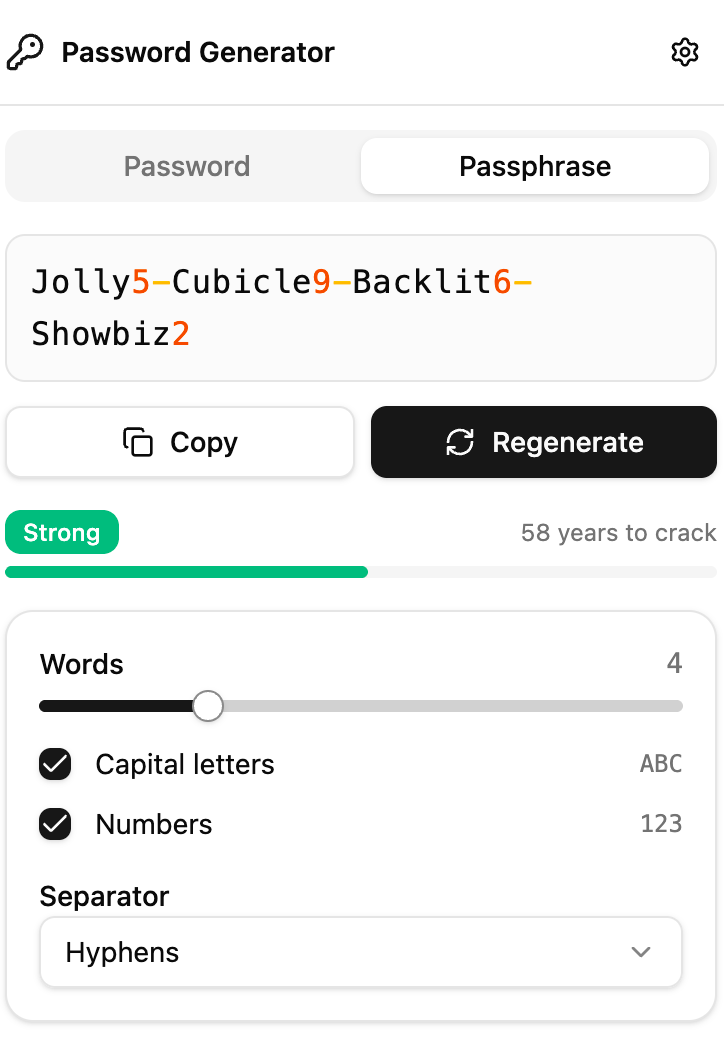
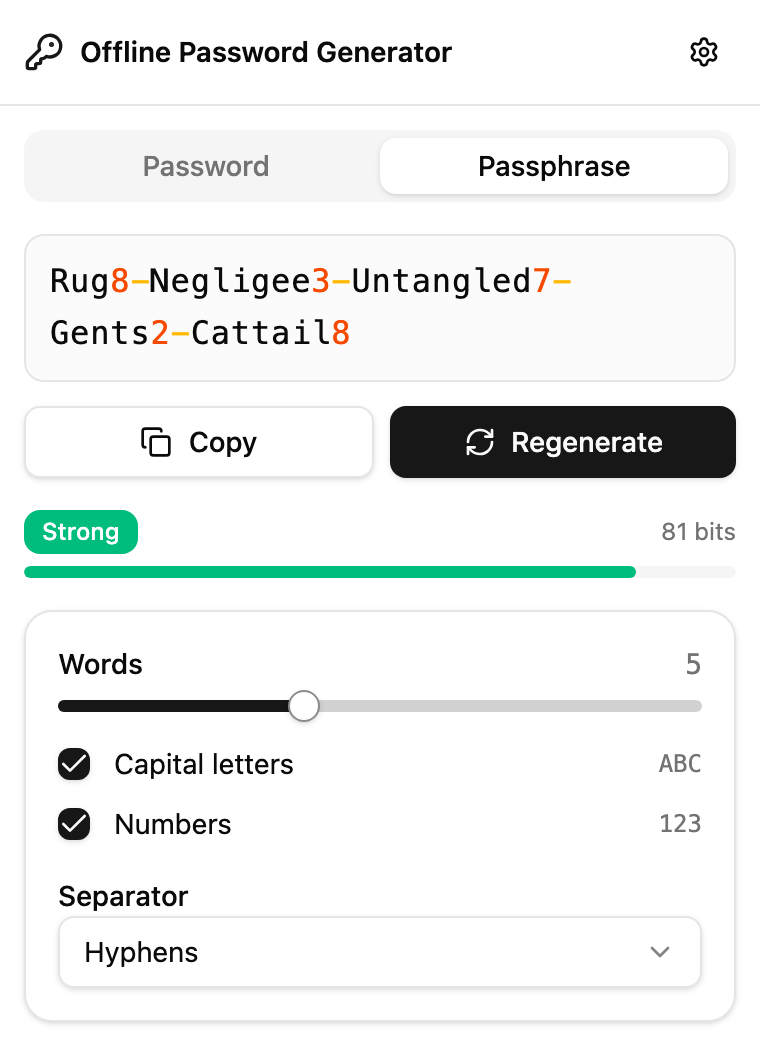
feat: report entropy in bits instead of an invented crack time
The strength meter read the same for every setting in the range people
actually use. Two causes, both in the presentation rather than the maths.

A crack time needs an assumed guess rate, and the real rate is set by how
the target service hashes the secret - roughly 1e4/s against bcrypt at work
factor 12, upwards of 1e12/s against unsalted MD5 on GPUs. A generator
cannot know where its output ends up, so the hardcoded 1e10/s was made up,
and it saturated: everything past ~89 bits printed "billions of years", so
5 through 10 words were indistinguishable. Report bits instead - a property
of the secret, needing no assumption about the attacker, and unbounded, so
every step of the slider moves it.

Recalibrate the labels to 30/55/75/95 bits. The old scale put 36 to 60 bits
in one "Fair" bucket, which is 5 seconds to 79 days, and labelled a
two-word phrase "Fair" next to "5 seconds to crack". Two words now reads
Weak, an 8-character password Weak, and both defaults stay in the green.

The bar now fills at the "Very strong" threshold rather than a separate
128, so bar and badge can no longer disagree.

Entropy itself is unchanged: it depends only on the settings, never on
which words came up. Regenerating at fixed settings does not move the
number, and that is correct - scoring by string length would reward long
words that add no entropy at all.

Also correct the README's passphrase range to 2-10, matching the code, and
[…]

diff --git a/src/lib/entropy.ts b/src/lib/entropy.ts
@@ -12,7 +12,6 @@ export interface Strength {
   bits: number;
   label: StrengthLabel;
   score: number; // 0..1, for the meter width
-  crackTime: string;
 }
 
 export function passwordEntropyBits(opts: PasswordOptions): number {
@@ -35,11 +34,25 @@ export function passphraseEntropyBits(opts: PassphraseOptions): number {
   return bits;
 }
 
+/**
+ * Label thresholds in bits, ascending; the last entry is open-ended.
+ *
+ * The UI deliberately reports entropy rather than a crack time. A time figure
+ * would have to assume a guess rate, but the real rate is set by how the target
+ * service hashes the secret and spans some eight orders of magnitude - roughly
+ * 1e4/s against bcrypt at work factor 12, upwards of 1e12/s against unsalted
+ * MD5 on GPUs. A generator cannot know where its output will be used, so any
+ * single number would be made up, and would rot as hardware improves. Bits are
+ * a property of the secret itself, need no assumptions, and never saturate.
+ */
+/** Bits at which a secret becomes "Very strong" - also where the bar fills. */
+export const VERY_STRONG_BITS = 95;
+
 const LABELS: { max: number; label: StrengthLabel }[] = [
-  { max: 28, label: "Very weak" },
-  { max: 36, label: "Weak" },
-  { max: 60, label: "Fair" },
-  { max: 128, label: "Strong" },
+  { max: 30, label: "Very weak" },
+  { max: 55, label: "Weak" },
+  { max: 75, label: "Fair" },
+  { max: VERY_STRONG_BITS, label: "Strong" },
   { max: Infinity, label: "Very strong" },
 ];
 
@@ -48,38 +61,16 @@ function labelFor(bits: number): StrengthLabel {
   return hit ? hit.label : "Very strong";
 }
 
-// Order-of-magnitude offline attacker rate (fast-hash / GPU), guesses/second.
-const GUESSES_PER_SEC = 1e10;
-
-function humanTime(seconds: number): string {
-  if (seconds < 1) return "instantly";
-  const minute = 60;
-  const hour = minute * 60;
-  const day = hour * 24;
-  const year = day * 365;
-  if (seconds < minute) return `${Math.round(seconds)} seconds`;
-  if (seconds < hour) return `${Math.round(seconds / minute)} minutes`;
-  if (seconds < day) return `${Math.round(seconds / hour)} hours`;
-  if (seconds < year) return `${Math.round(seconds / day)} days`;
-  const years = seconds / year;
-  if (years < 100) return `${Math.round(years)} years`;
-  if (years < 1e3) return "centuries";
-  if (years < 1e6) return "thousands of years";
-  if (years < 1e9) return "millions of years";
-  return "billions of years";
-}
-
 export function strengthFromBits(bits: number): Strength {
   // A broken/non-finite entropy must never read as strong.
   if (!Number.isFinite(bits) || bits <= 0) {
-    return { bits: 0, label: "Very weak", score: 0, crackTime: "instantly" };
+    return { bits: 0, label: "Very weak", score: 0 };
   }
-  // Average guesses to crack is half the keyspace.
-  const seconds = Math.pow(2, bits) / 2 / GUESSES_PER_SEC;
   return {
     bits,
+    // A full bar means exactly "Very strong", so bar and label never disagree.
+    // Above that the bar pins while the reported bits keep climbing.
     label: labelFor(bits),
-    score: Math.max(0, Math.min(1, bits / 128)),
-    crackTime: humanTime(seconds),
+    score: Math.max(0, Math.min(1, bits / VERY_STRONG_BITS)),
   };
 }

diff --git a/src/popup/components/StrengthMeter.jsx b/src/popup/components/StrengthMeter.jsx
@@ -30,8 +30,11 @@ export function StrengthMeter({ strength }) {
     <div className="space-y-1.5">
       <div className="flex items-center justify-between">
         <Badge className={cn(s.badge)}>{strength.label}</Badge>
-        <span className="text-xs text-muted-foreground">
-          {strength.crackTime} to crack
+        <span
+          className="text-xs text-muted-foreground"
+          title="Entropy of the generated secret. Higher is better; every extra bit doubles the search space."
+        >
+          {Math.round(strength.bits)} bits
         </span>
       </div>
       <div className="h-1.5 w-full overflow-hidden rounded-full bg-muted">

diff --git a/README.md b/README.md
@@ -28,13 +28,13 @@ _Demo data - the generated secrets shown above are examples._
   - **Password** - length slider (8-64), toggles for uppercase / digits /
     symbols (lowercase is always on), and an **"exclude look-alike characters"**
     option (`0`/`O`, `1`/`l`/`I`) that is **on by default**.
-  - **Passphrase** - word-count slider (3-10), optional capitalization, an
+  - **Passphrase** - word-count slider (2-10), optional capitalization, an
     optional trailing digit per word, and a choice of separators (hyphen, space,
     period, comma, underscore, a random number, or a random number + symbol).
 - **Character-by-character colored output**, one-click copy, and instant
   regeneration.
-- **Strength meter** - a badge (Very weak … Very strong), a bar, and an
-  estimated crack time, all computed from the secret's entropy.
+- **Strength meter** - a badge (Very weak … Very strong), a bar, and the exact
+  entropy in bits. No invented crack times - see below.
 - **Options page** - theme (System / Light / Dark) and default generation
   parameters. Settings persist in `chrome.storage.local` and stay in sync
   between the popup and the options page.
@@ -74,14 +74,37 @@ Then load it in Chrome:
 2. Enable **Developer mode**
 3. Click **Load unpacked** and select the `dist/` folder
 
-## How strength is estimated
+## How strength is measured
 
-For randomly generated secrets, entropy is exact:
+For randomly generated secrets, entropy is exact rather than estimated:
 `password = length x log2(pool size)`, `passphrase = words x log2(7776)` plus the
-contribution of added digits and random separators. The crack-time figure assumes
-an offline attacker at ~1e10 guesses/sec and, on average, half the keyspace. This
-is intentionally not zxcvbn (which targets human-chosen, guessable passwords) -
-for uniformly random secrets the mathematical entropy is the honest measure.
+contribution of added digits and random separators. This is intentionally not
+zxcvbn (which targets human-chosen, guessable passwords) - for uniformly random
+secrets the mathematical entropy is the honest measure.
+
+The meter reports that number in **bits**, and deliberately does **not** show a
+"time to crack".
+
+Any crack time has to assume a guess rate, and the real rate is set by how the
+target service stores your secret - not by the secret itself. That rate spans
+roughly eight orders of magnitude: on the order of 1e4 guesses/sec against bcrypt
+at work factor 12, upwards of 1e12/sec against unsalted MD5 on GPUs. A generator
+cannot know where its output will end up, so a single figure would be invented,
+and it would rot as hardware gets faster. Bits are a property of the secret
+itself, need no assumptions about the attacker, and never saturate - which is
+also why the number keeps moving at every step of the slider instead of pinning
+at "billions of years".
+
+A useful intuition: each extra bit doubles the search space. The badge maps bits
+to a plain-language label at 30 / 55 / 75 / 95 bits, and the bar reads full at 95
+bits, where the label becomes "Very strong".
+
+Note that entropy depends only on your **settings**, not on which words or
+characters happened to come up. A five-word diceware phrase is worth the same
+64.6 bits whether it reads `ox-ivy-ad-elk-ash` or
+`antihistamine-configure-bookshelf-parakeet-tumbleweed` - an attacker who knows
+you used diceware searches the 7776-word list, not the letters. Regenerating at
+fixed settings will therefore never move the number, and that is correct.
 
 ## Wordlist
 
